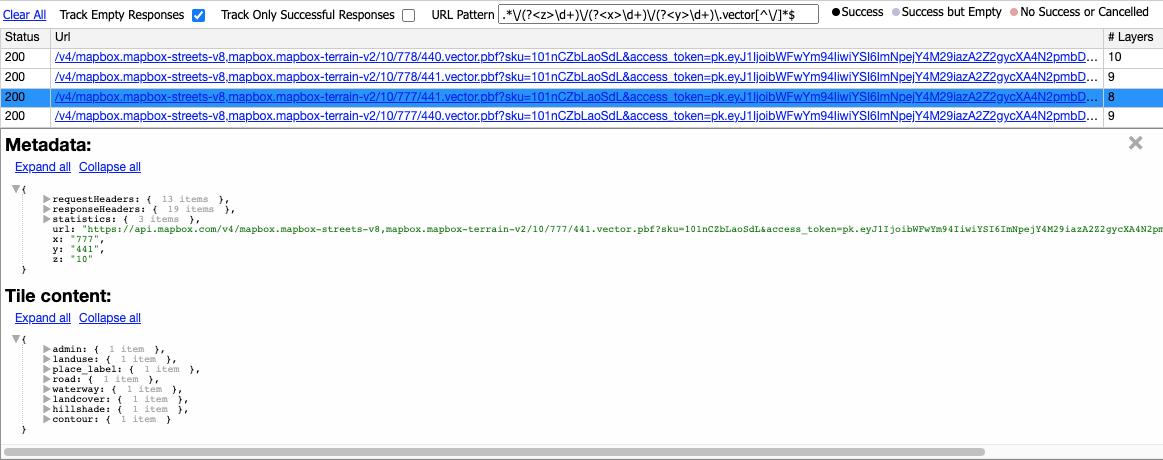
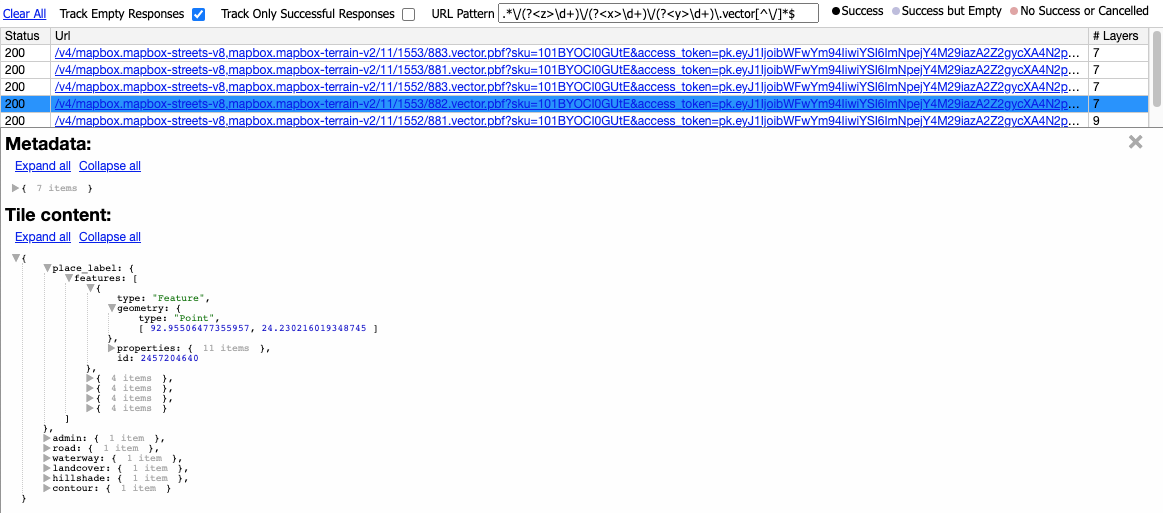
Theme support

Changed region(s): [[0.0, 0.0, 1.0, 0.5783], [0.0, 0.5783, 0.8667, 1.0], [0.2476, 0.6087, 0.3095, 0.6696]]

diff --git a/mvt-tiles-panel.css b/mvt-tiles-panel.css
@@ -3,6 +3,8 @@ html, body {
     margin: 0;
     padding: 0;
     font-family: ".SFNSDisplay-Regular", "Helvetica Neue", "Lucida Grande", sans-serif;
+    background: var(--color-background);
+    color: var(--color-text-primary)
 }
 
 #tilesTable {
@@ -15,8 +17,8 @@ html, body {
     height: auto;
     max-height: calc(100% - 30px);
     user-select: none;
-    border-top: solid #CCC 1px;
-    border-left: solid #CCC 1px;
+    border-top: solid var(--color-background-elevation-2) 1px;
+    border-left: solid var(--color-background-elevation-2) 1px;
 }
 
 body.withDialog #tilesTable {
@@ -24,8 +26,8 @@ body.withDialog #tilesTable {
 }
 
 #tilesTable [role=header], #tilesTable [role=cell] {
-    border-bottom: solid #CCC 1px;
-    border-right: solid #CCC 1px;
+    border-bottom: solid var(--color-background-elevation-2) 1px;
+    border-right: solid var(--color-background-elevation-2) 1px;
     white-space: nowrap;
     padding: 1px 4px;
 }
@@ -33,7 +35,7 @@ body.withDialog #tilesTable {
 #tilesTable [role=header] {
     position: sticky;
     top: 0;
-    background: rgb(243, 243, 243);
+    background: var(--color-background-highlight);
 }
 
 #tilesTable [role=header].wrap-content, #tilesTable [role=cell].wrap-content {
@@ -45,23 +47,28 @@ body.withDialog #tilesTable {
 }
 
 #tilesTable [role=row].pending-tile [role=cell] {
-    color: #bebcdd;
+    color: var(--color-text-disabled);
 }
 
 #tilesTable [role=row].empty-tile [role=cell] {
-    color: #bebcdd;
+    color: var(--color-text-disabled);
 }
 
 #tilesTable [role=row].no-success-tile [role=cell] {
-    color: #e0a4a4;
+    color: var(--color-accent-red);
 }
 
 #tilesTable [role=row]:hover [role=cell] {
-    background-color: #ffa;
+    background-color: var(--color-background-hover);
 }
 
 #tilesTable [role=row].selected [role=cell] {
-    background-color: #1e90ff;
+    background-color: var(--color-background-selected);
+}
+
+#tilesTable [role=row] a,
+.setting-control a {
+    color: var(--color-link);
 }
 
 #tilesTable [role=row].empty-tile a,
@@ -76,7 +83,7 @@ body.withDialog #tilesTable {
 #tilesTable [role=row].pending-tile a:hover,
 #tilesTable [role=row].pending-tile a:active,
 #tilesTable [role=row].pending-tile a:visited {
-    color: #bebcdd;
+    color: var(--color-text-disabled);
 }
 
 #tilesTable [role=row].no-success-tile a,
@@ -85,7 +92,7 @@ body.withDialog #tilesTable {
 #tilesTable [role=row].no-success-tile a:hover,
 #tilesTable [role=row].no-success-tile a:active,
 #tilesTable [role=row].no-success-tile a:visited {
-    color: #e0a4a4;
+    color: var(--color-accent-red);
 }
 
 #tilesTable .url {
@@ -118,11 +125,6 @@ body.withDialog #tilesTable {
     vertical-align: middle;
 }
 
-.setting-control.right {
-    position: absolute;
-    right: 0;
-}
-
 /*modal dialog*/
 #viewTileDialog {
     display: none;
@@ -130,8 +132,6 @@ body.withDialog #tilesTable {
     overflow: auto;
     height: auto;
     max-height: calc(100% - 130px);
-    background-color: rgb(0, 0, 0);
-    background-color: rgba(0, 0, 0, 0.4);
 }
 
 body.withDialog #viewTileDialog {
@@ -139,8 +139,7 @@ body.withDialog #viewTileDialog {
 }
 
 #viewTileDialogContent {
-    background-color: #fefefe;
-    border: 1px solid #888;
+    border: 1px solid var(--color-details-hairline);
     height: 100%;
     box-sizing: border-box;
     position: relative;
@@ -148,18 +147,17 @@ body.withDialog #viewTileDialog {
 }
 
 .viewTileDialog_closeButton {
-    color: #aaaaaa;
+    color: var(--color-text-secondary);
     font-size: 28px;
     line-height: 28px;
     font-weight: bold;
-    top: 125px;
     right: 20px;
-    position: absolute;
+    position: fixed;
     z-index: 1;
 }
 
 .viewTileDialog_closeButton:hover, .viewTileDialog_closeButton:focus {
-    color: #000;
+    color: var(--color-text-primary);
     text-decoration: none;
     cursor: pointer;
 }
@@ -207,14 +205,14 @@ ul li:before {
 }
 
 ul li.success:before {
-    background: #000000;
+    background: var(--color-text-primary);
 }
 
 ul li.empty-tile:before {
-    background: #bebcdd;
+    background: var(--color-text-disabled);
 }
 
 ul li.no-success-tile:before {
-    background: #e0a4a4;
+    background: var(--color-accent-red);
 }
 

diff --git a/lib/themeColors.css b/lib/themeColors.css
@@ -1,0 +1,72 @@
+/* Copyright 2020 The Chromium Authors. All rights reserved.
+ * Use of this source code is governed by a BSD-style license that can be
+ * found in the LICENSE file.
+ */
+/**
+ * These are the new set of colors for the new Light/Dark themes. See
+ * https://crbug.com/1122511 and
+ * https://docs.google.com/document/d/1QrSSRsJRzaQBY3zz73ZL84bTcFUV60yMtE5cuu6ED14
+ * for details.
+*/
+:root {
+    --color-primary: #1a73e8;
+    --color-primary-variant: #4285f4;
+    --color-background: #fff;
+    --color-background-elevation-1: #f1f3f4;
+    --color-background-elevation-2: #dee1e6;
+    --color-background-highlight: #cacdd1;
+    --color-background-hover: #ffa;
+    --color-background-selected: #1e90ff;
+    --color-text-primary: #202124;
+    --color-text-secondary: #5f6368;
+    --color-text-disabled: #80868b;
+    --color-details-hairline: #cacdd1;
+    --color-accent-red: #d93025;
+    --color-accent-green: #188038;
+    --color-link: var(--color-primary);
+    --color-syntax-1: #c80000;
+    --color-syntax-2: #881280;
+    --color-syntax-3: #1a1aa6;
+    --color-syntax-4: #994500;
+    --color-syntax-5: #84f0ff;
+    --color-syntax-6: #236e25;
+    --color-syntax-7: #303942;
+    --color-syntax-8: #a894a6;
+    --drop-shadow:
+      0 0 0 1px rgb(0 0 0 / 5%),
+      0 2px 4px rgb(0 0 0 / 20%),
+      0 2px 6px rgb(0 0 0 / 10%);
+    --box-shadow-outline-color: rgb(0 0 0 / 50%);
+  }
+  
+  .-theme-with-dark-background {
+    --color-primary: #8ab4f8;
+    --color-primary-variant: #669df6;
+    --color-background: #202124;
+    --color-background-elevation-1: #292a2d;
+    --color-background-elevation-2: #35363a;
+    --color-background-highlight: #4b4c4f;
+    --color-background-hover: #ffa;
+    --color-background-selected: #1e90ff;
+    --color-text-primary: #e8eaed;
+    --color-text-secondary: #9aa0a6;
+    --color-text-disabled: #80868b;
+    --color-details-hairline: #494c50;
+    --color-accent-red: #f28b82;
+    --color-accent-green: #81c995;
+    --color-link: var(--color-primary);
+    --color-syntax-1: #35d4c7;
+    --color-syntax-2: #5db0d7;
+    --color-syntax-3: #f29766;
+    --color-syntax-4: #9bbbdc;
+    --color-syntax-5: #84f0ff;
+    --color-syntax-6: #898989;
+    --color-syntax-7: #cfd0d0;
+    --color-syntax-8: #5db0d7;
+    --drop-shadow:
+      0 0 0 1px rgb(255 255 255 / 20%),
+      0 2px 4px 2px rgb(0 0 0 / 20%),
+      0 2px 6px 2px rgb(0 0 0 / 10%);
+    --box-shadow-outline-color: rgb(0 0 0 / 50%);
+  }
+  

diff --git a/lib/json-viewer.css b/lib/json-viewer.css
@@ -1,5 +1,5 @@
 .json-viewer {
-	color: #000;
+	color: var(--color-text-primary);
 	padding-left: 20px;
 }
 
@@ -8,6 +8,7 @@
 }
 
 .json-viewer .link-bar a {
+	color: var(--color-link);
 	padding: 0 4px;
 }
 
@@ -15,7 +16,7 @@
 	list-style-type: none;
 	margin: 0;
 	margin: 0 0 0 1px;
-	border-left: 1px dotted #ccc;
+	border-left: 1px dotted var(--color-details-hairline);
 	padding-left: 2em;
 }
 
@@ -24,34 +25,34 @@
 }
 
 .json-viewer .type-string {
-	color: #0B7500;
+	color: var(--color-syntax-6);
 }
 
 .json-viewer .type-date {
-	color: #CB7500;
+	color: var(--color-syntax-4);
 }
 
 .json-viewer .type-boolean {
-	color: #1A01CC;
+	color: var(--color-syntax-3);
 	font-weight: bold;
 }
 
 .json-viewer .type-number {
-	color: #1A01CC;
+	color: var(--color-syntax-3);
 }
 
 .json-viewer .type-null, .json-viewer .type-undefined {
-	color: #90a;
+	color: var(--color-syntax-2);
 }
 
 .json-viewer a.list-link {
-	color: #000;
+	color: var(--color-text-primary);
 	text-decoration: none;
 	position: relative;
 }
 
 .json-viewer a.list-link:before {
-	color: #aaa;
+	color: var(--color-text-secondary);
 	content: "\25BC";
 	position: absolute;
 	display: inline-block;
@@ -68,7 +69,7 @@
 }
 
 .json-viewer .items-ph {
-	color: #aaa;
+	color: var(--color-text-secondary);
 	padding: 0 1em;
 }
 

diff --git a/mvt-tiles-panel.html b/mvt-tiles-panel.html
@@ -2,6 +2,7 @@
 <html>
 
 <head>
+	<link rel="stylesheet" href="lib/themeColors.css" />
 	<link rel="stylesheet" href="mvt-tiles-panel.css" />
 	<link rel="stylesheet" href="lib/json-viewer.css" />
 	<script src="lib/pbf-3.2.0.js"></script>
@@ -28,9 +29,9 @@
 		</div>
 		<div class="setting-control right">
 			<ul class="legend">
-				<li class="success"><span style="color: #000000;">Success</span></li>
-				<li class="empty-tile"><span style="color: #000000;">Success but Empty</span></li>
-				<li class="no-success-tile"><span style="color: #000000;">No Success or Cancelled</span></li>
+				<li class="success"><span>Success</span></li>
+				<li class="empty-tile"><span>Success but Empty</span></li>
+				<li class="no-success-tile"><span>No Success or Cancelled</span></li>
 			</ul>
 		</div>
 	</div>
@@ -42,9 +43,9 @@
 	</div>
 
 	<div id="viewTileDialog">
-		<span class="viewTileDialog_closeButton">&times;</span>
 		<div id="viewTileDialogContent">
 			<div id="viewTileContainer">
+				<span class="viewTileDialog_closeButton">&times;</span>
 				<h2>Metadata:</h2>
 				<div id="tileMetadata"></div>
 				<h2>Tile content:</h2>

diff --git a/lib/json-viewer.js b/lib/json-viewer.js
@@ -137,7 +137,8 @@ var JSONViewer = (function(document) {
 							}
 							else if (itemIsArray && ((itemLen === 1 && typeof item[0] !== 'object') || (itemLen === 2 && typeof item[0] === 'number' && typeof item[1] === 'number'))) {
 								// single-element array, or 2-number array - just show it inline
-								li.appendChild(document.createTextNode('[ '));
+								var itemTitle = (typeof key === 'string' ? key + ': ' : '') + '[ ';
+								li.appendChild(document.createTextNode(itemTitle));
 								li.appendChild(createSimpleViewOf(item[0]));
 								if (itemLen === 2) {
 									li.appendChild(document.createTextNode(', '));

diff --git a/mvt-tiles-panel.js b/mvt-tiles-panel.js
@@ -8,6 +8,11 @@ const tileMetadata = _ge('tileMetadata');
 const dialog = _ge('viewTileDialog');
 const closeButton = document.getElementsByClassName("viewTileDialog_closeButton")[0];
 
+if (chrome.devtools.panels.themeName === 'dark') {
+	document.querySelector('html').classList.add('-theme-with-dark-background');
+}
+// document.querySelector('html').classList.add(themeClass);
+
 document.addEventListener("click", onDocumentClick);
 _ge('clear').addEventListener("click", (e) => {
 	if (window.onClear) {
